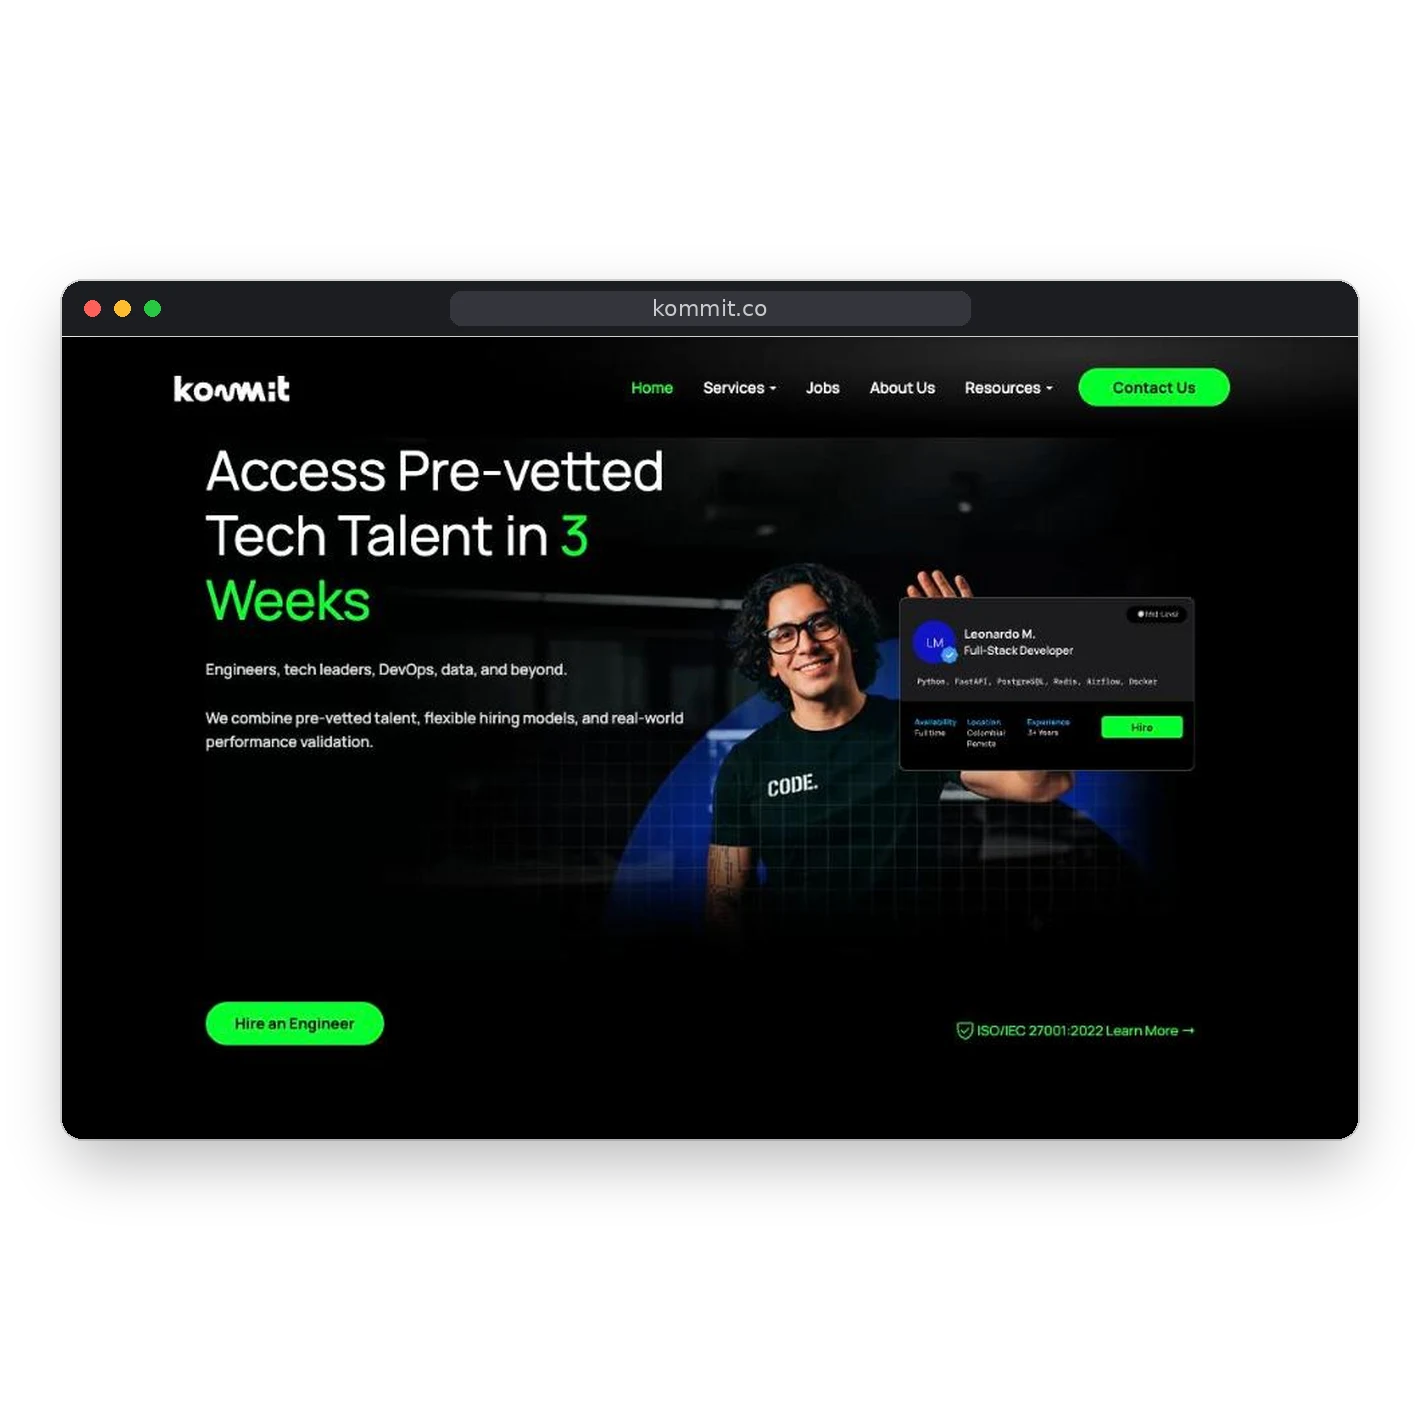
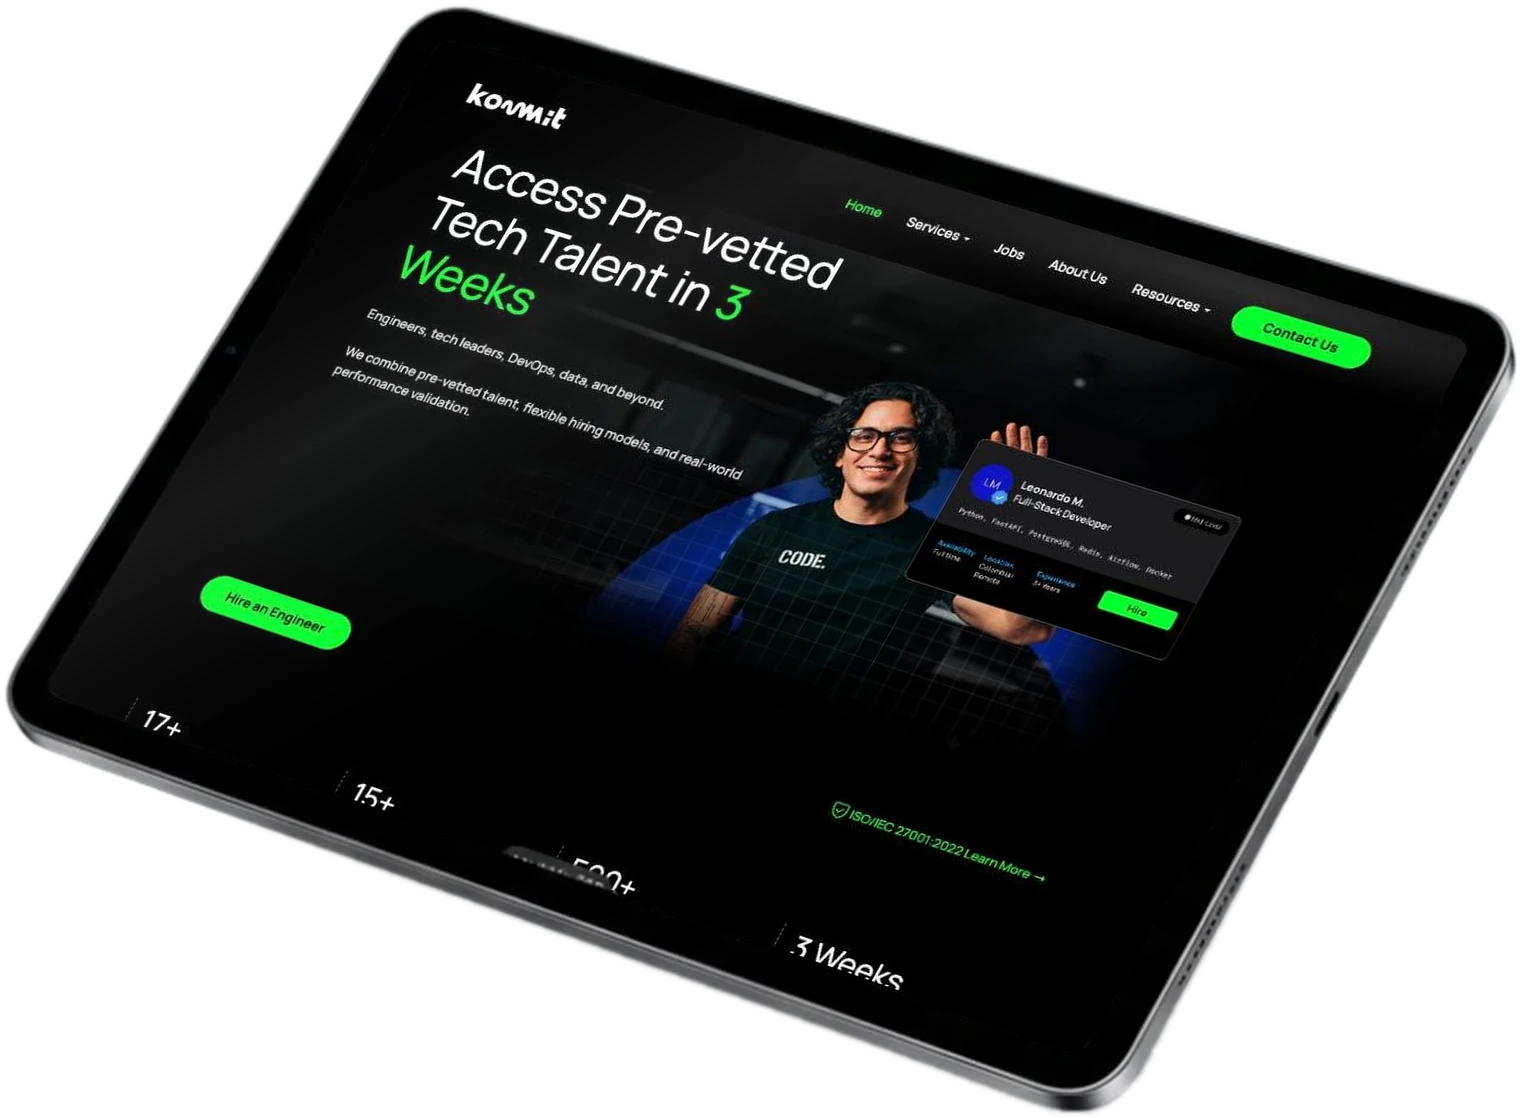
Showcase: real kommit.co and Chaincerts viewer screens inside the tablet render
Claude-Session: https://claude.ai/code/session_0191ifpuygfdUtj3hrihVXre

diff --git a/index.html b/index.html
@@ -1382,7 +1382,7 @@
     const P=[
       {n:'Kommit V5',sup:'DS',d:'Design system para todo el producto: tokens, componentes y gobernanza.',dev:'ds',w:'96%',href:'portal-kommit.html',
        lead:'Un sistema que el equipo de producto reutiliza, no reinventa.',over:'Lideré Kommit V5 end-to-end: fundamentos, tokens, librería de componentes en Figma, documentación y gobernanza con desarrollo. Hoy es la base de todos los productos internos y de cliente.'},
-      {n:'Chaincerts',sup:'',d:'Credenciales digitales verificables en Web3. Marca e interfaz.',dev:'chaincerts',w:'92%',href:'chaincerts.html',
+      {n:'Chaincerts',sup:'',d:'Credenciales digitales verificables en Web3. Marca e interfaz.',dev:'chaincerts',w:'96%',href:'chaincerts.html',
        lead:'Diplomas y certificados que se verifican en segundos.',over:'Diseñé la identidad y la experiencia de Chaincerts: emisión, wallet y verificación de credenciales sobre blockchain, pensado para universidades y sus egresados.'},
       {n:'Driftway',sup:'',d:'Juego arcade en el navegador. Esquiva el código, no pares.',dev:'game',w:'96%',href:'driftway.html',
        lead:'Un juego propio para explorar ritmo, sonido y feedback.',over:'Driftway es un proyecto del Lab: una nave que esquiva cubos de código en Three.js. Lo uso para experimentar con game feel, motion y diseño de interacción en tiempo real.'},
